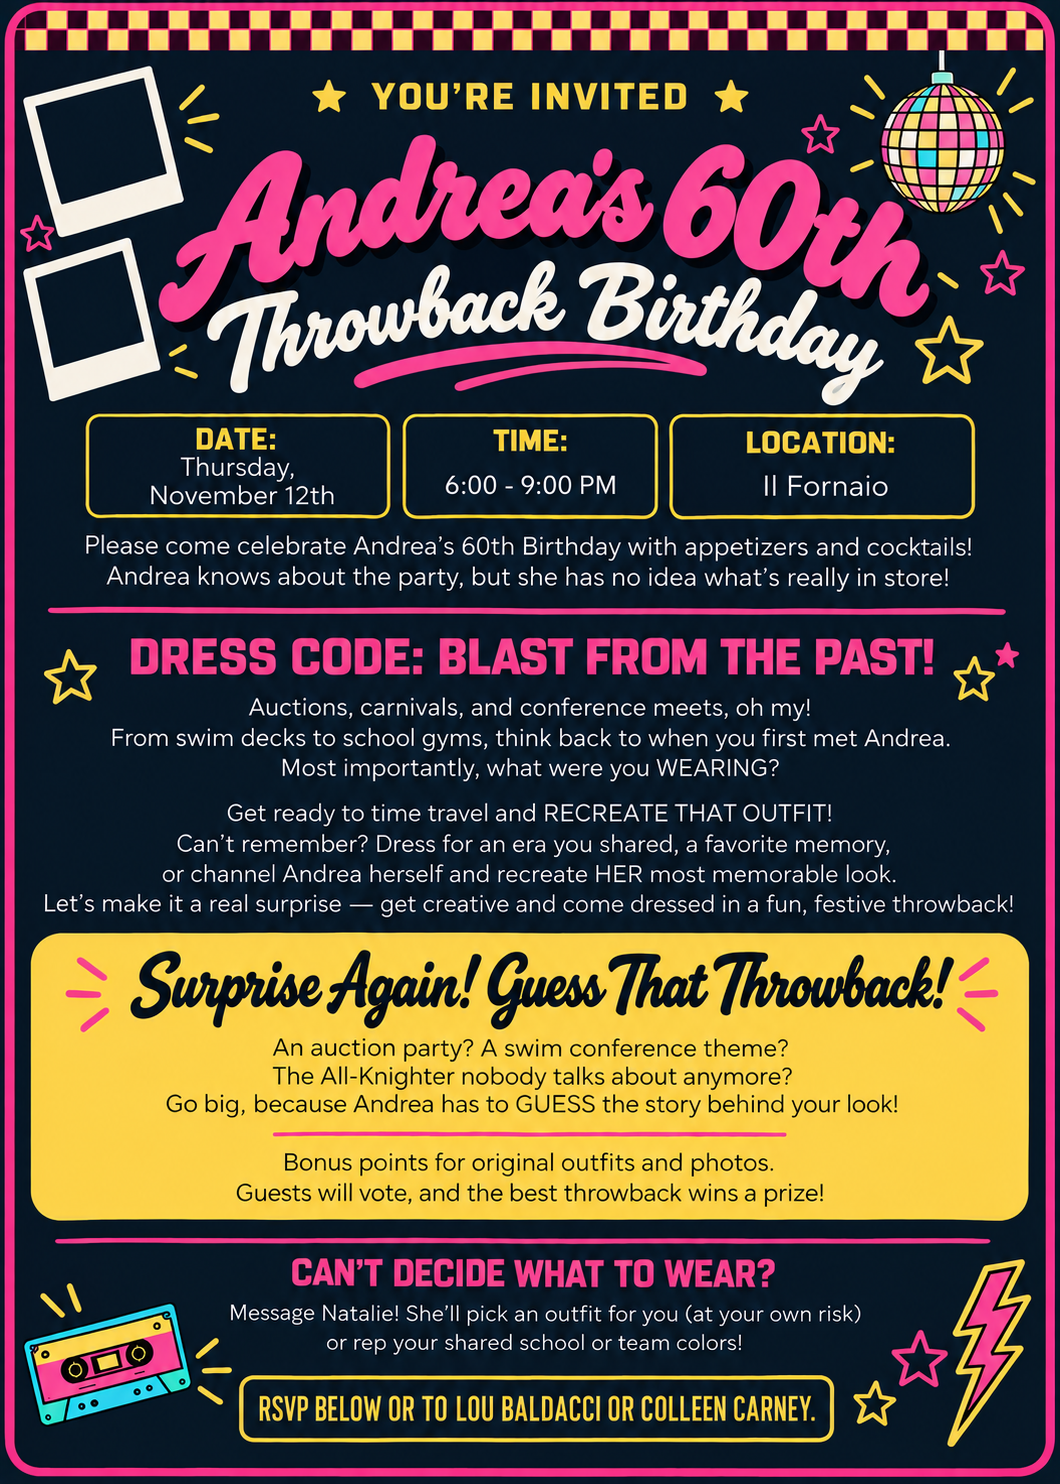
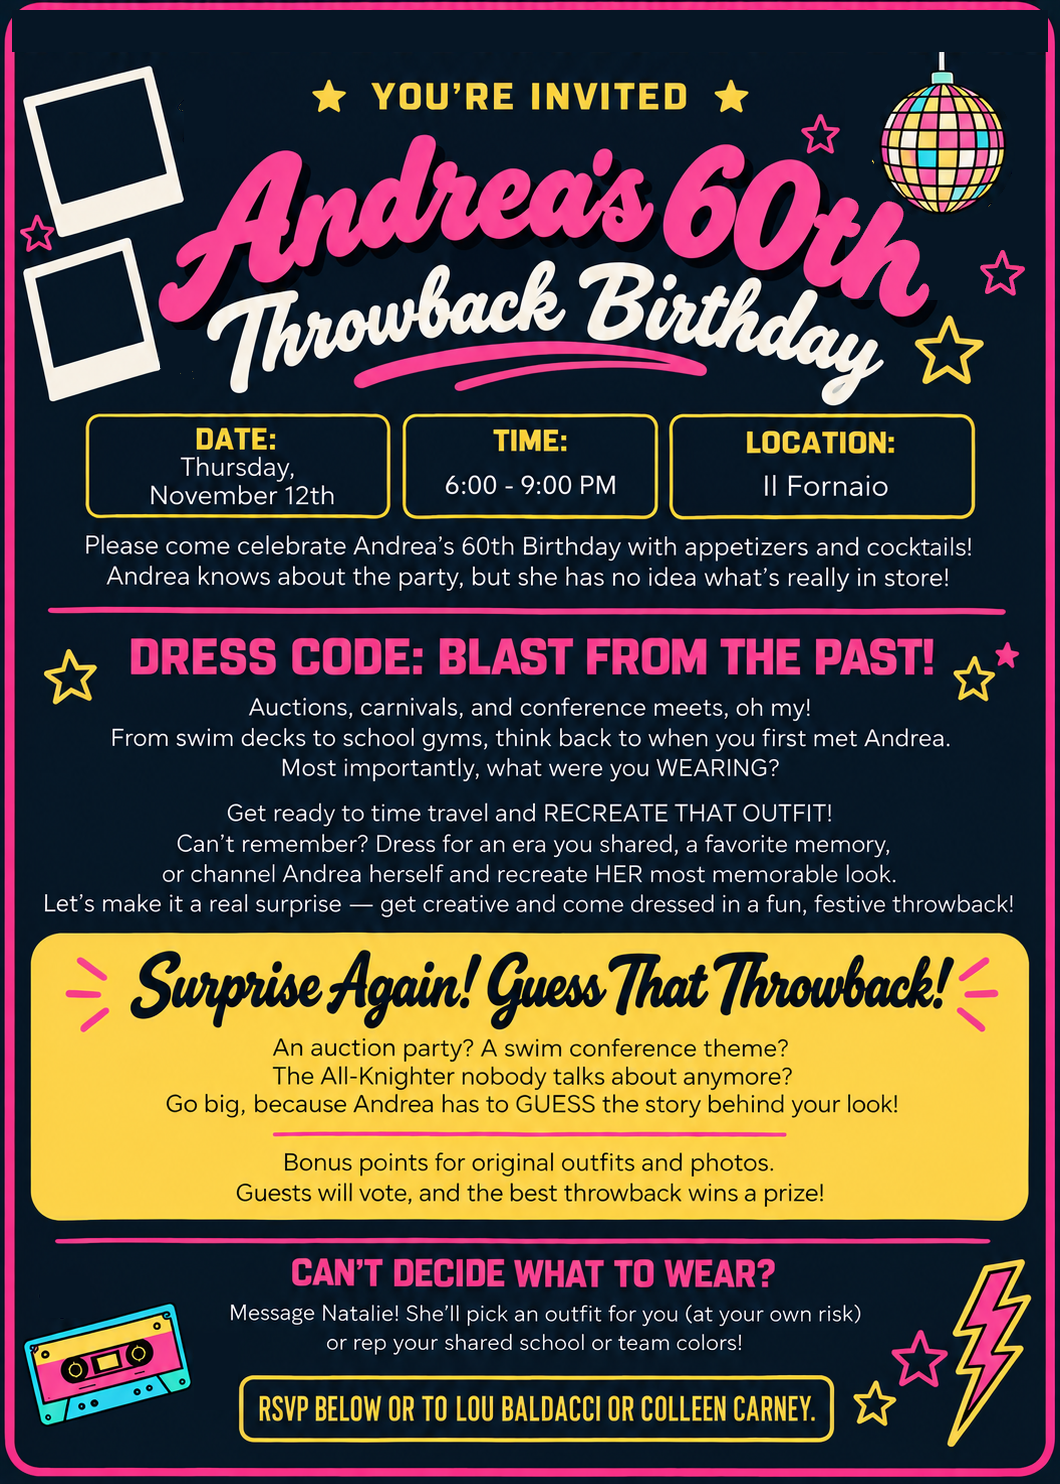
Option B card (no checkers, fewer burst lines); drop page checker bands

diff --git a/index.html b/index.html
@@ -480,7 +480,7 @@ body::after {
   -webkit-mask: linear-gradient(#000 0 20px, transparent 20px calc(100% - 20px), #000 calc(100% - 20px));
   mask: linear-gradient(#000 0 20px, transparent 20px calc(100% - 20px), #000 calc(100% - 20px));
 }
-body.retro::after { opacity: 1; }
+body.retro::after { opacity: 0; }
 body.retro .party, body.retro .controls {
   --panel: #0e1830;
   --line: #ff4fa3;
